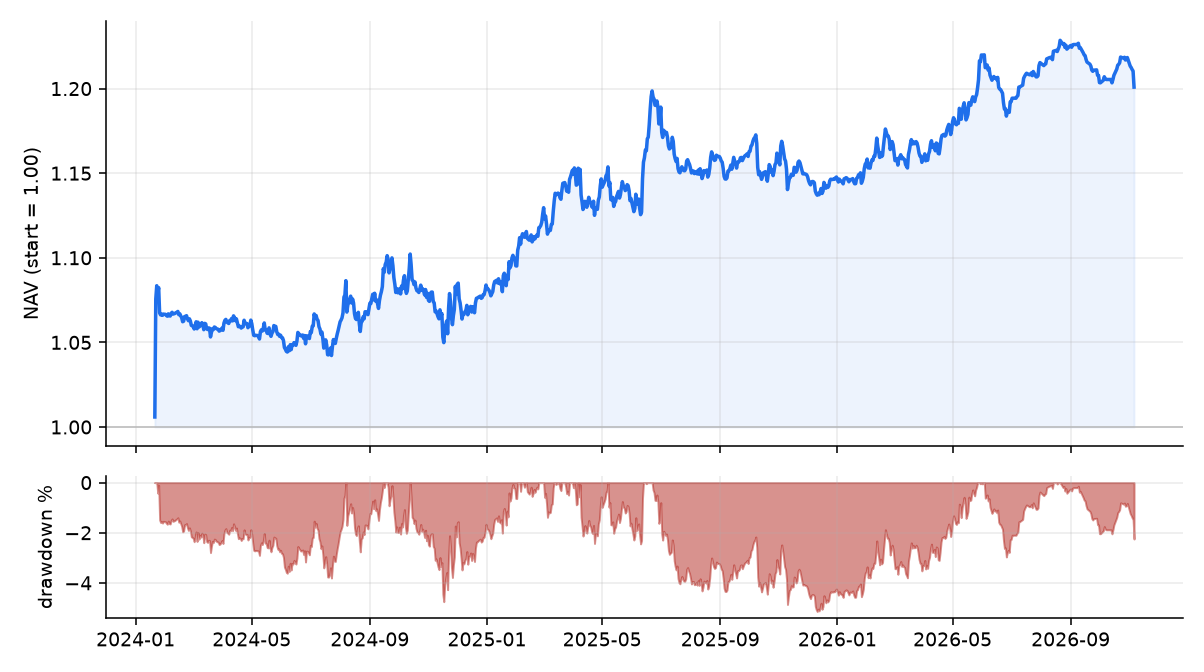
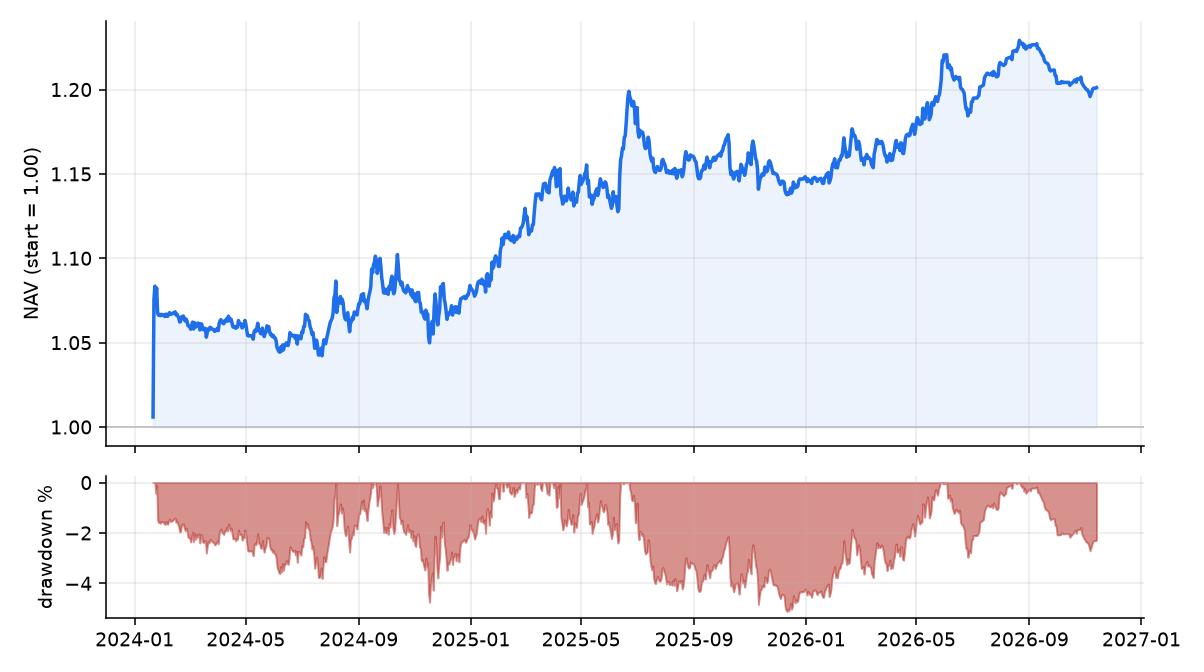
live: NAV update 2026-11-23T09:17Z

diff --git a/index.html b/index.html
@@ -36,7 +36,7 @@ footer{margin-top:46px;padding-top:16px;border-top:1px solid var(--rule);color:v
 <header>
   <div class="tag">Alpha Research · Live Book</div>
   <h1>The diversified risk-premium book, paper-traded live</h1>
-  <p class="sub">Inception 2024-01-01 · data through 2026-11-06 · updated 2026-11-22 09:17:34 UTC<br>
+  <p class="sub">Inception 2024-01-01 · data through 2026-11-13 · updated 2026-11-23 09:17:27 UTC<br>
   The capstone of the <a href="https://bryanvine.github.io/alpha-research/">Alpha Research</a> series
   (<a href="https://bryanvine.github.io/alpha-research/paper7.html">Paper 7</a>), tracked forward as a paper portfolio.</p>
 </header>
@@ -47,7 +47,7 @@ footer{margin-top:46px;padding-top:16px;border-top:1px solid var(--rule);color:v
 
 <h2>Current target weights &amp; sleeve performance</h2>
 <table><thead><tr><th>Sleeve</th><th>Weight</th><th>Sharpe (since inception)</th></tr></thead>
-<tbody><tr><td>Crypto funding carry</td><td>nan%</td><td class="pos">+0.96</td></tr><tr><td>Crypto trend</td><td>nan%</td><td class="pos">+0.18</td></tr><tr><td>FX carry</td><td>52.9%</td><td class="pos">+0.68</td></tr><tr><td>FX value</td><td>47.1%</td><td class="neg">-0.80</td></tr></tbody></table>
+<tbody><tr><td>Crypto funding carry</td><td>nan%</td><td class="pos">+0.96</td></tr><tr><td>Crypto trend</td><td>nan%</td><td class="pos">+0.18</td></tr><tr><td>FX value</td><td>50.3%</td><td class="neg">-0.70</td></tr><tr><td>FX carry</td><td>49.7%</td><td class="pos">+0.60</td></tr></tbody></table>
 
 <div class="note"><strong>What this is.</strong> A risk-parity, 10%/yr-vol-targeted combination of the
 daily-tradable survivors from the research program — crypto funding carry, crypto trend, and G10 FX
